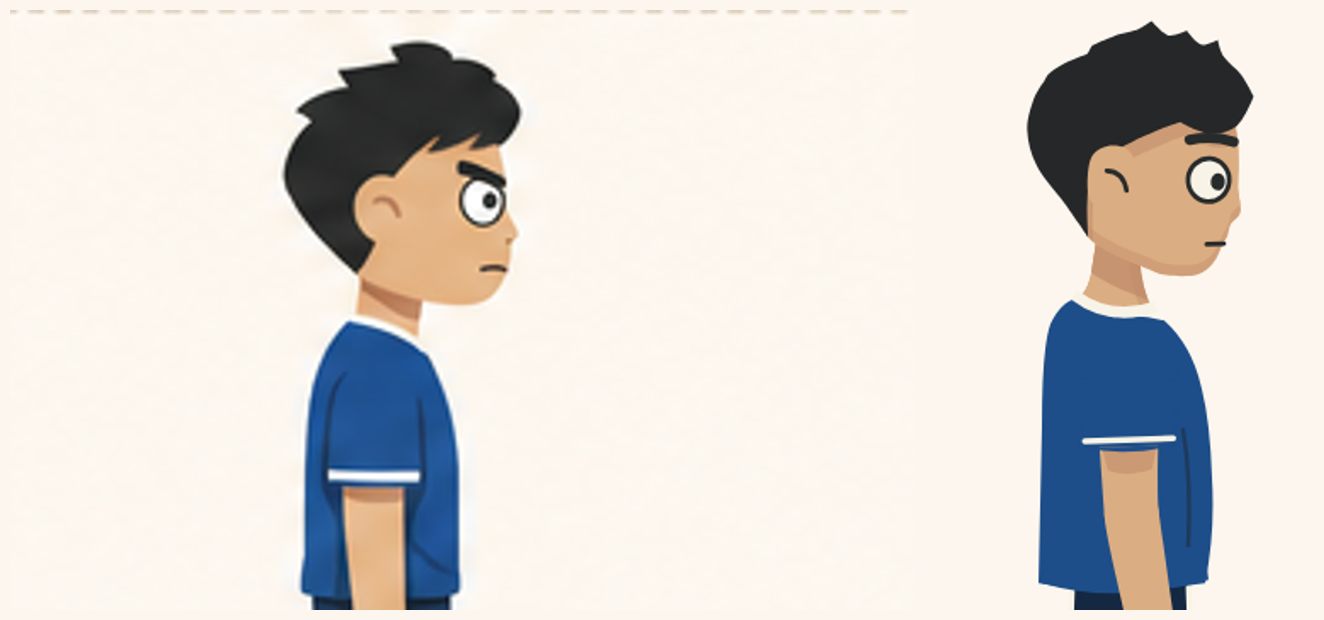
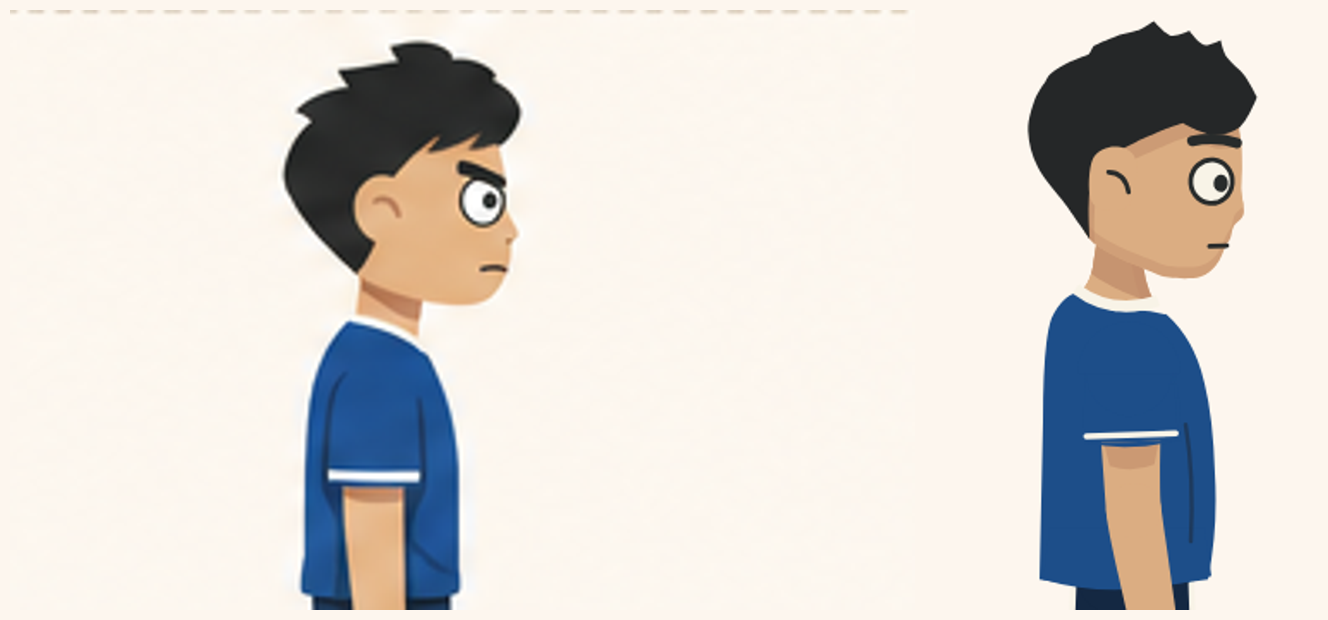
Hồ sơ 02: rút ngắn cổ Tùng nghiêng thêm một chút
Claude-Session: https://claude.ai/code/session_01SK73tBnSQF4kxa4AZiXrY1

diff --git a/episodes/hem-co-chuyen/ho-so-02-nguoi-lam-thay/assets/nhan-vat.tsx b/episodes/hem-co-chuyen/ho-so-02-nguoi-lam-thay/assets/nhan-vat.tsx
@@ -1092,10 +1092,10 @@ const TungProfileHead: React.FC<{ mood: 'annoyed' | 'calm'; clip: string; talk?:
         {/* bóng hàm đổ xuống cổ + một dải tối nhẹ ở mép trước cổ */}
         <path d={NECK_D} transform={NECK_T} fill={PALETTE.skinShadow} opacity={0.4} />
         <path d={NECK_D} transform={`translate(-6.5 0) ${NECK_T}`} fill={PALETTE.skin} />
-        <g transform="translate(5 3) rotate(5 -8 150) scale(1.1)"><path d={tungSkinPath(drop)} transform="translate(0 16)" fill={PALETTE.skinShadow} opacity={0.7} /></g>
+        <g transform="translate(5 8) rotate(5 -8 150) scale(1.1)"><path d={tungSkinPath(drop)} transform="translate(0 16)" fill={PALETTE.skinShadow} opacity={0.7} /></g>
       </g>
       <path d="M -31 183 Q -10 199 17 190" fill="none" stroke={PALETTE.tung.jerseyTrim} style={{ strokeWidth: lw(6.5) }} strokeLinecap="butt" />
-      <g transform="translate(5 3) rotate(5 -8 150) scale(1.1)">
+      <g transform="translate(5 8) rotate(5 -8 150) scale(1.1)">
       {drop > 0 && <path d={`M 48 130 L 38 ${131 + 0.4 * drop} L ${44 - 0.3 * drop} ${133 + drop} Z`} fill={PALETTE.mouthDark} stroke="none" />}
       <path d={tungSkinPath(drop)} fill={PALETTE.skin} {...o(PALETTE.skin)} />
       <g clipPath={`url(#${clip}-face)`} stroke="none">
